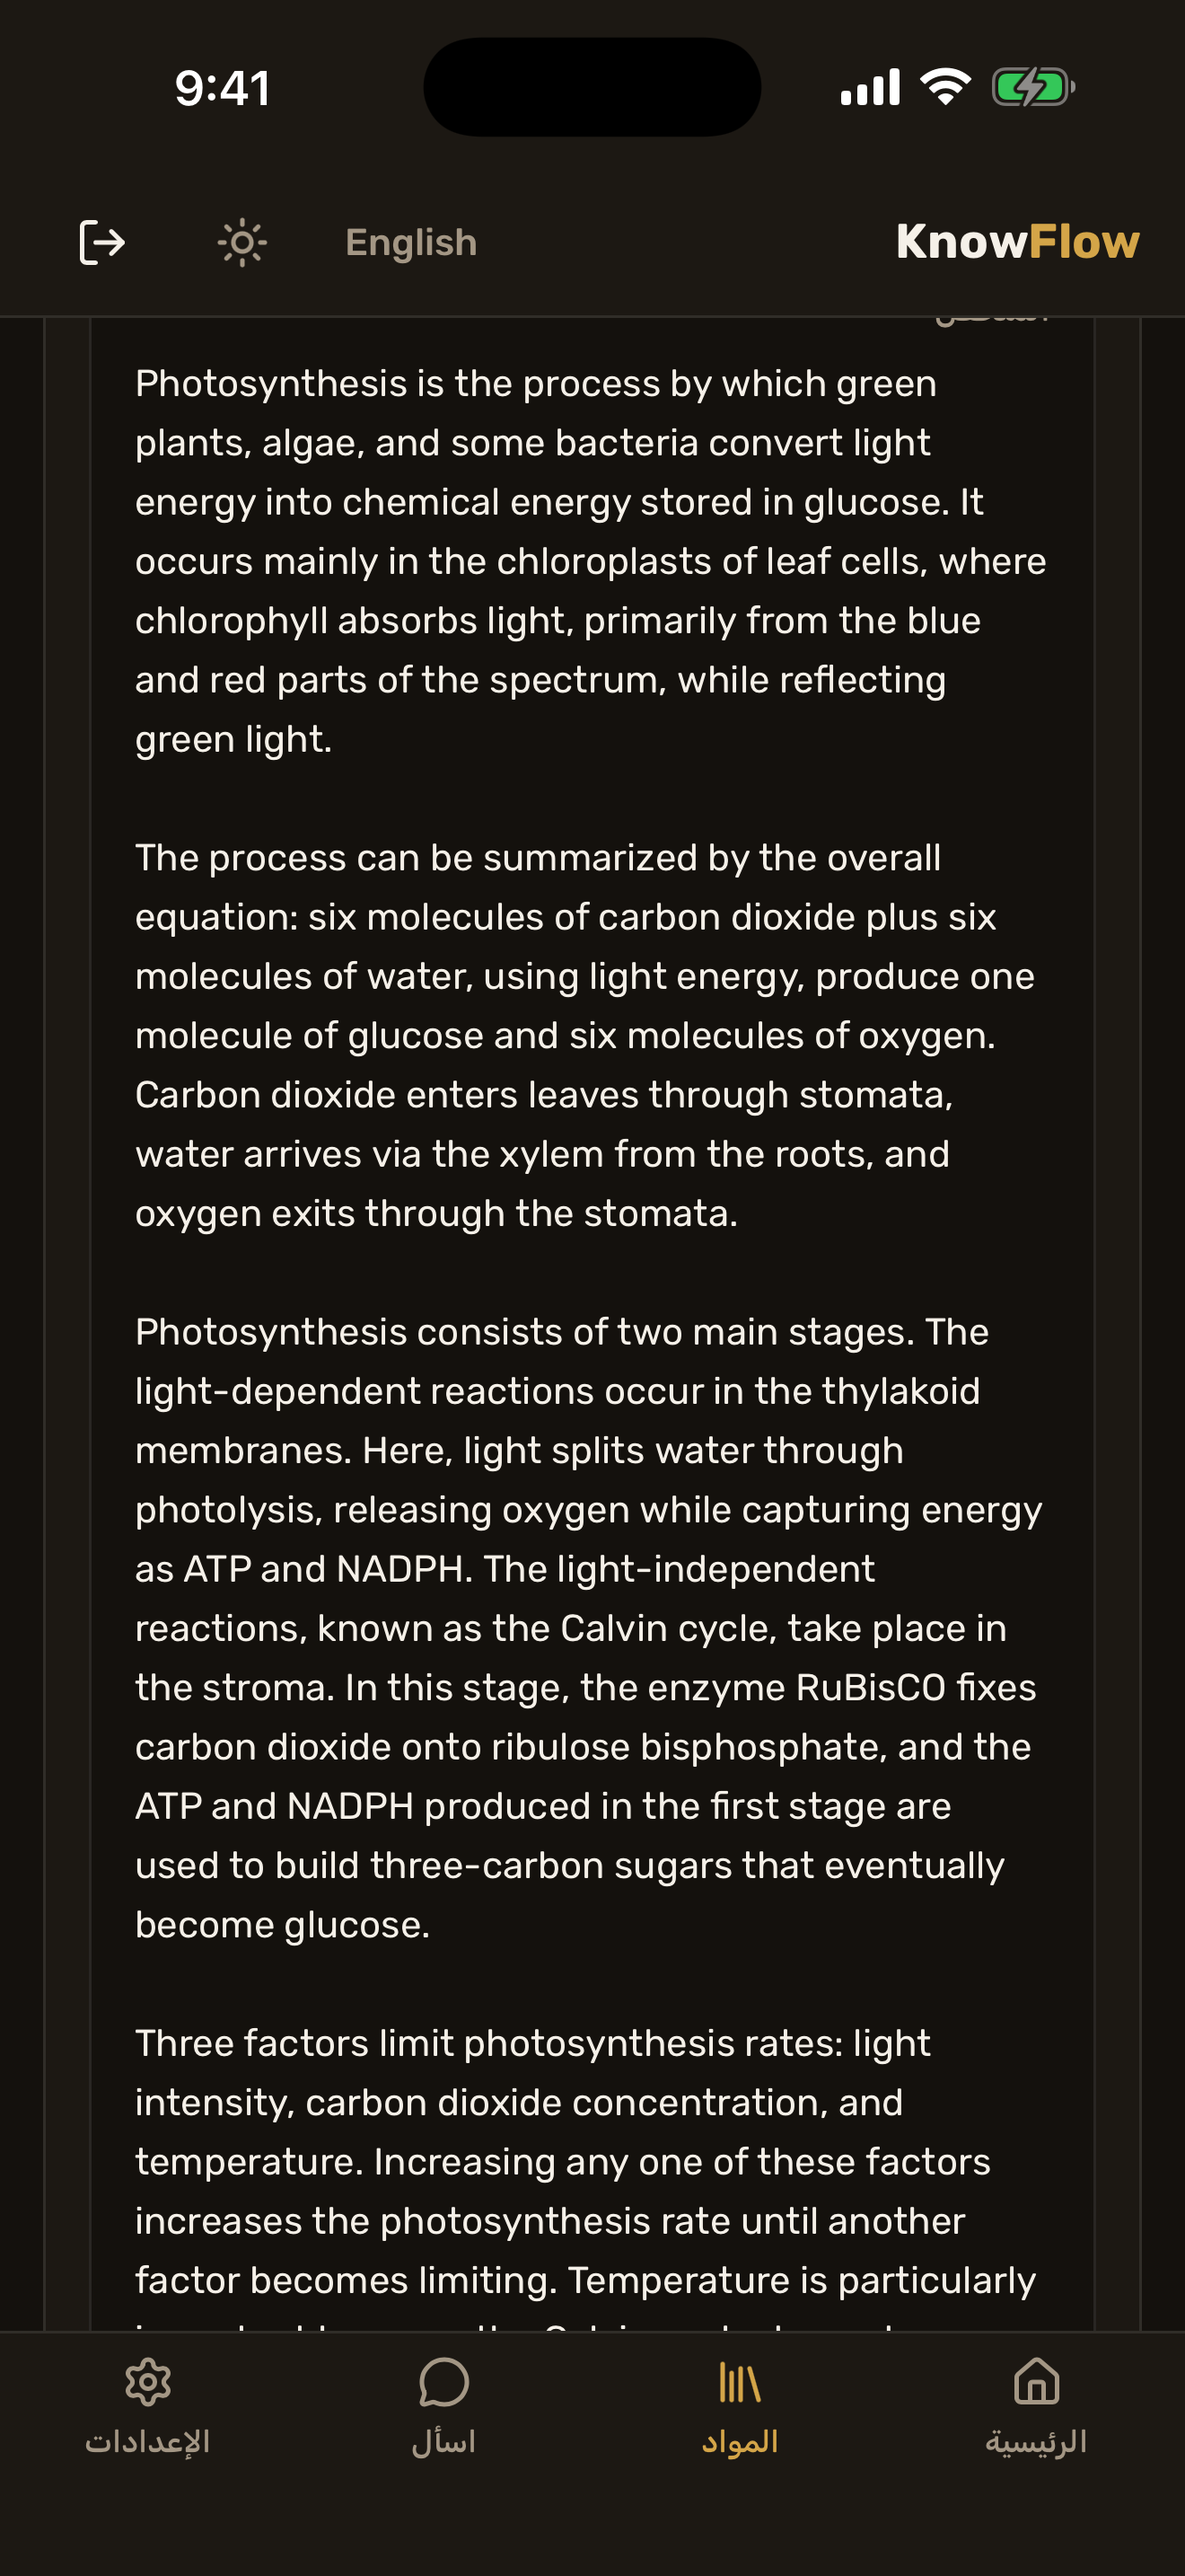
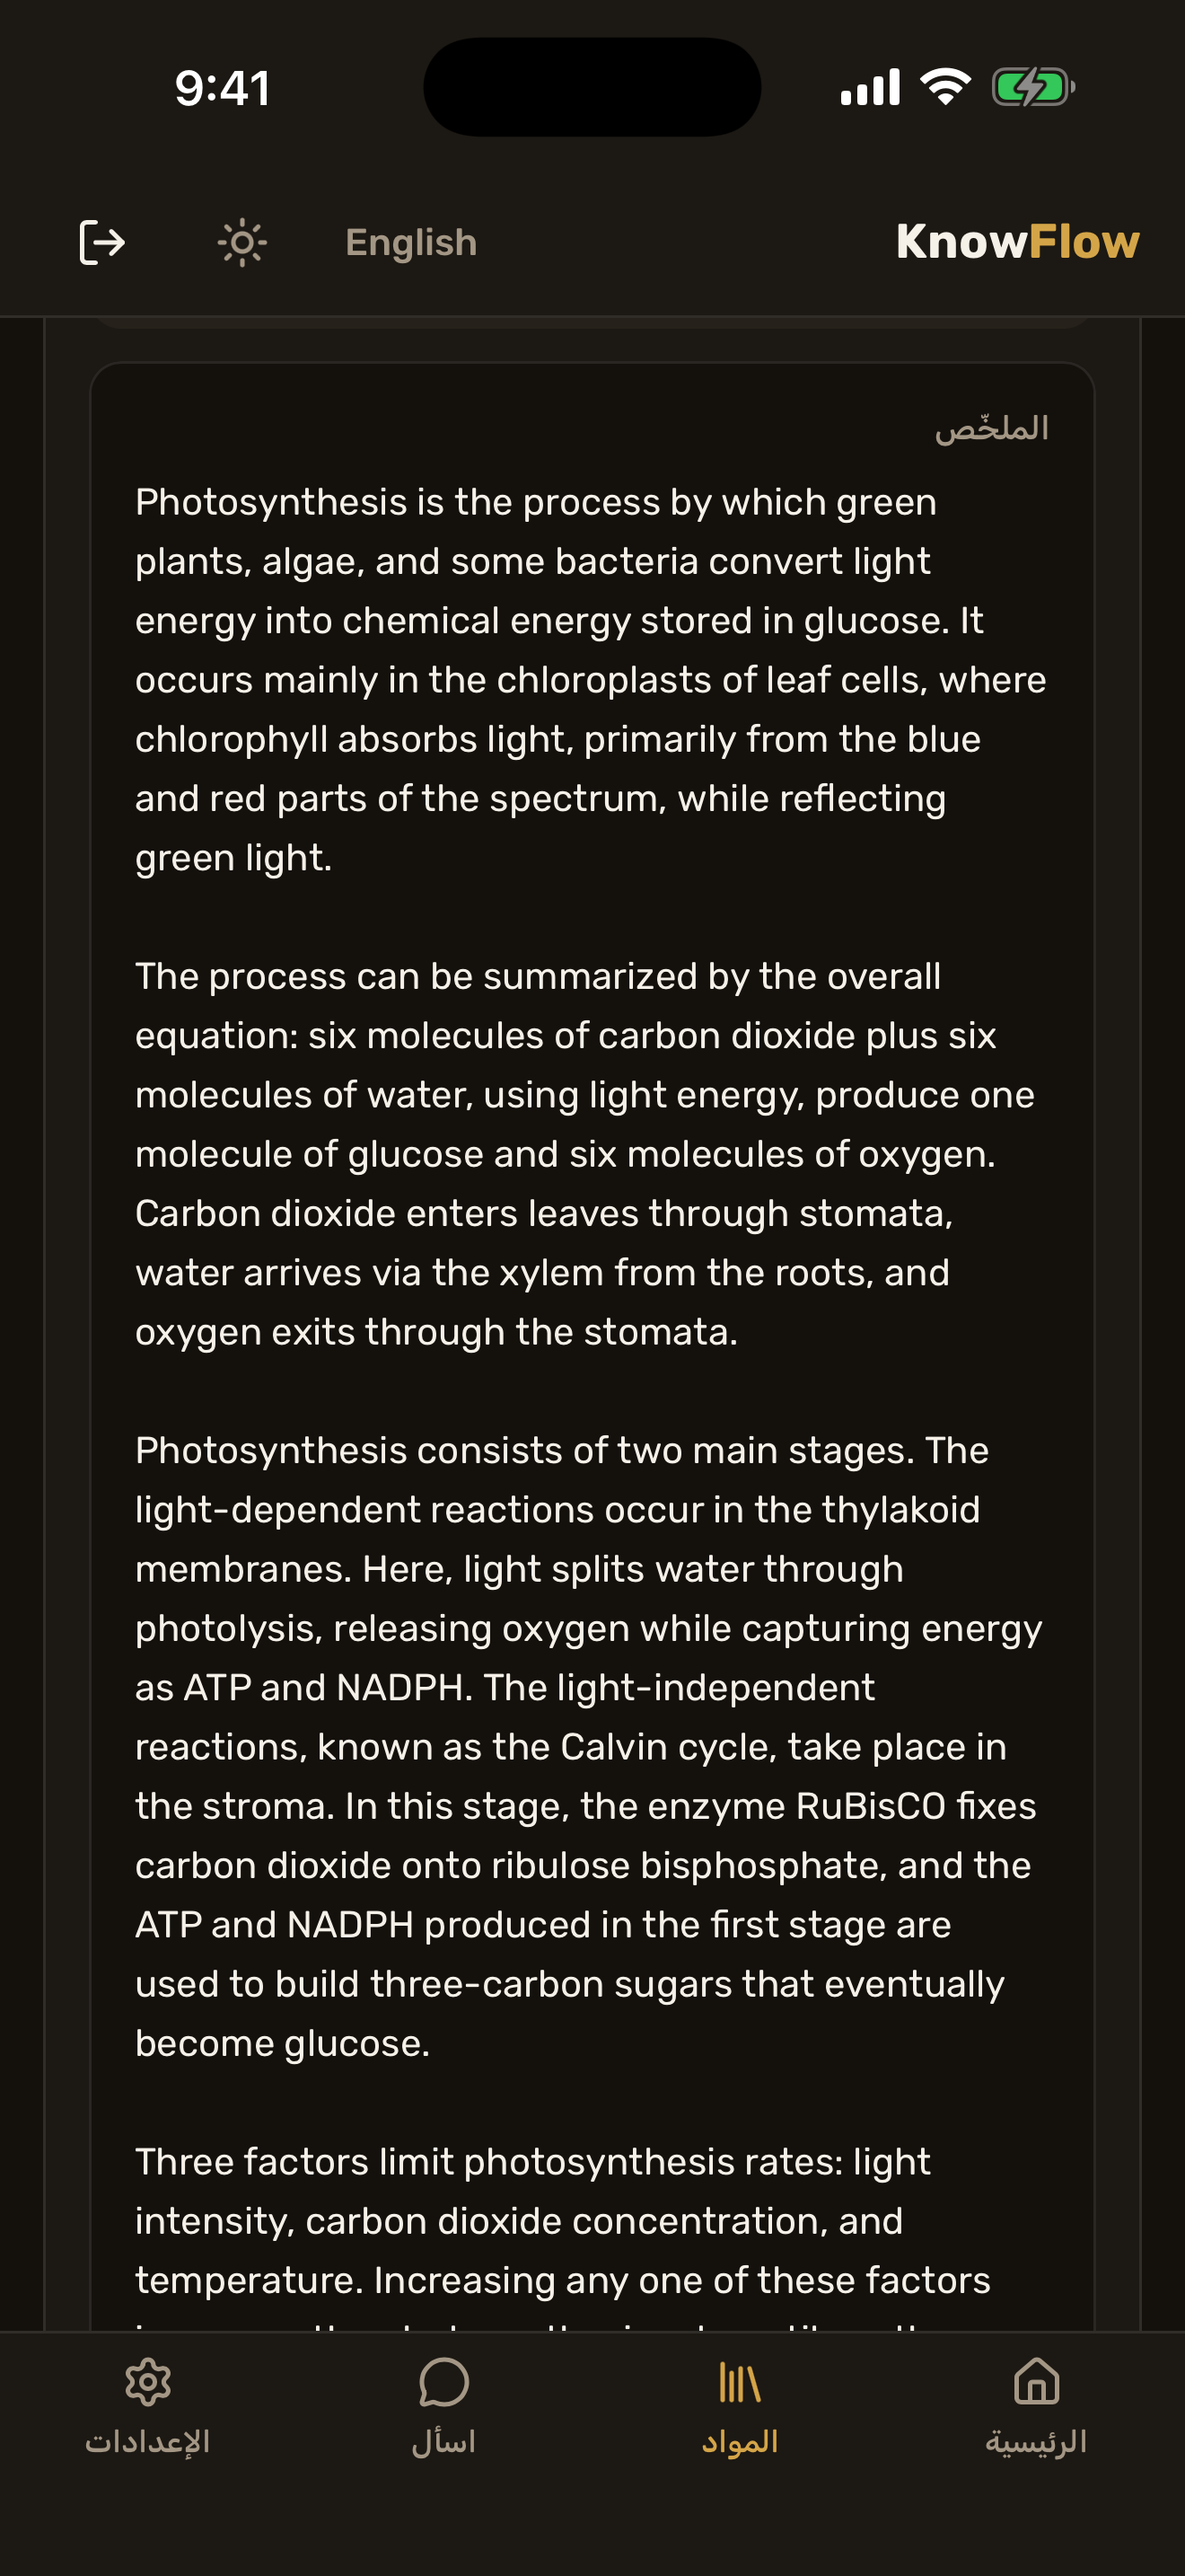
docs(store): the two Summary screenshots retaken from main after #251, heading below the app bar (run 38059355287) (#252)

Changed region(s): [[0.0932, 0.1241, 0.8697, 0.8999]]

diff --git a/docs/PROGRESS.md b/docs/PROGRESS.md
@@ -451,6 +451,15 @@ bodies total 37,095 bytes. **This retires the Option C frozen-tail invariant by 
 existed only to police a boundary inside an unreviewable single line, and the append-only rule above
 supersedes it. No bespoke hash is needed for future updates: the diff is the proof.
 
+### 2026-10-10 - The two Summary screenshots retaken from main after #251: the heading sits below the app bar in English and Arabic
+
+**No row is edited** (rows 42, 69 and 81 untouched). Files: `docs/store/screenshots/{en,ar}/03-summary.png` and `docs/store/screenshots/sizes.txt`.
+
+- **The run:** `ios-signed-in.yml`, scenario `screenshots`, dispatched on `main` at `63e68d0` (run 38059355287, green, 0 failures). It followed the merge push's screens run 38058419261, which also passed. The screenshot run was started only after that, because both share one concurrency group on `main`.
+- **The new reading:** "summary in view; heading top 151, bar bottom 118" in both locales. The new check (heading top at least 4 px below bar bottom) passed for both.
+- **Same specs as before:** an iPhone 17 Pro Max simulator, 9:41 status bar, the reviewer account, and 1320 × 2868 for every PNG. No screen showed a price, plan, upgrade or checkout word or link, and Settings showed no e-mail text. The reviewer account is left without the AI permission.
+- **The other eight files** from the same run are byte-identical to the committed ones, so only the two Summary files change.
+
 ### 2026-10-10 - Store path S7a: every App Store Connect answer drafted in `docs/store/ASC_ANSWERS.md` and checked against the code, the manifest and the live site; nothing entered in App Store Connect; the Summary screenshot step now measures the app bar
 
 **No row is edited** (rows 42, 69 and 81 untouched). Files: `docs/store/ASC_ANSWERS.md` (new), `docs/store/STORE_ASSETS.md` §4 privacy cell (corrected in place: it omitted name and diagnostics), `.github/workflows/ios-signed-in.yml` (the two Summary screenshot steps and one check).
